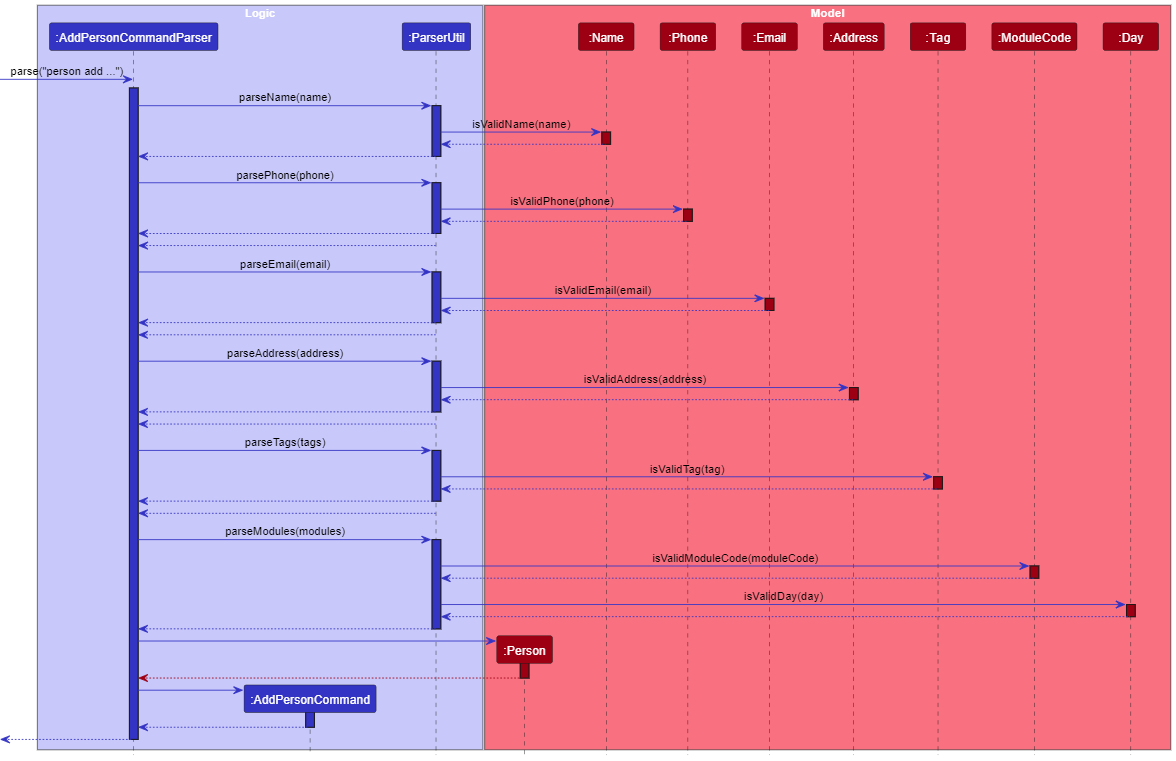
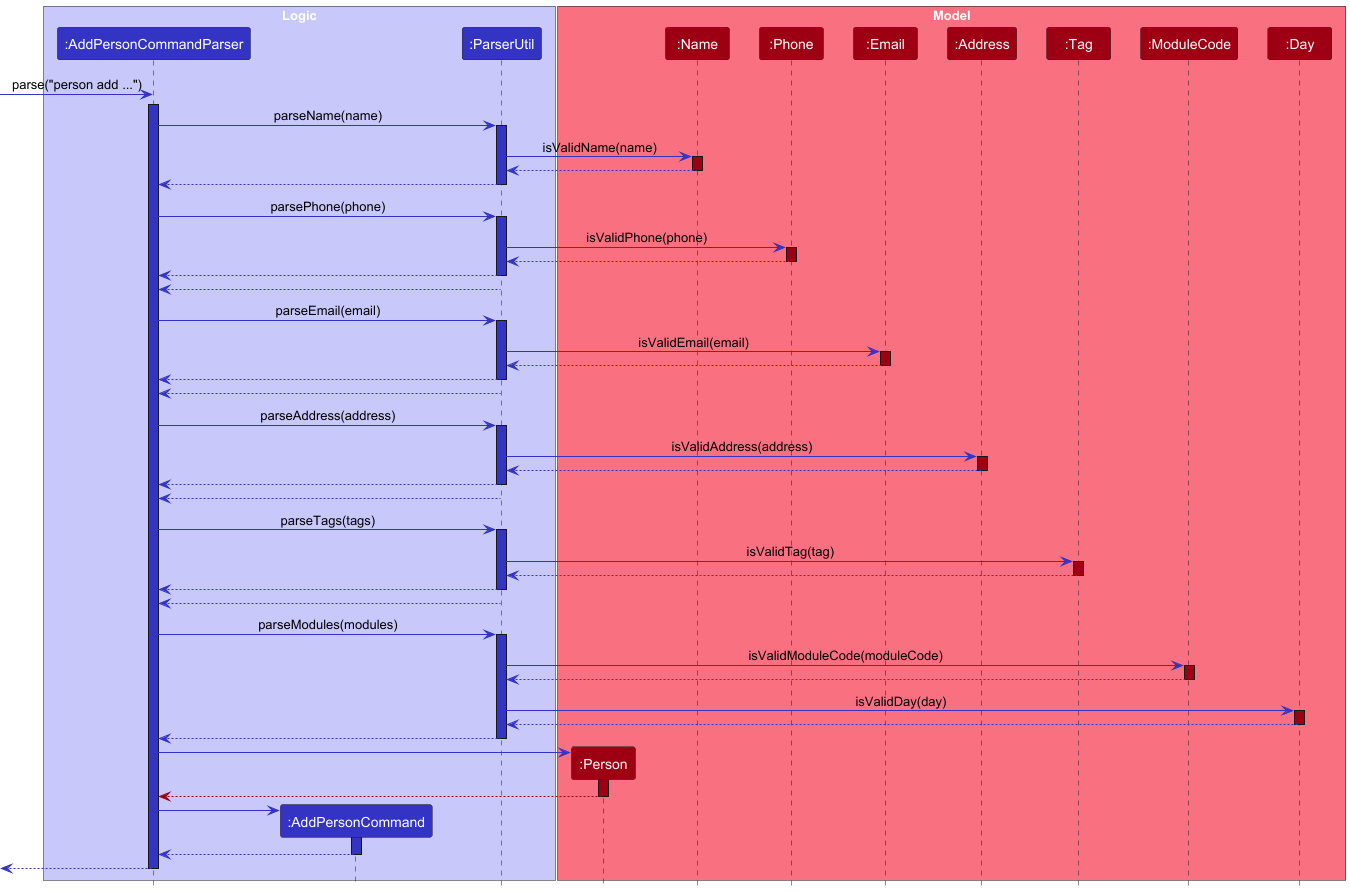
Update Architecture section of DG

diff --git a/docs/DeveloperGuide.md b/docs/DeveloperGuide.md
@@ -362,7 +362,7 @@ Classes used by multiple components are organized in the `syncsquad.teamsync.com
 
 ---
 
-## **Implementation**
+## Implementation
 
 This section describes some noteworthy details on how certain features are implemented.
 
@@ -381,7 +381,7 @@ There are 4 main command groups:
 
 <img src="images/PersonClassDiagram.png" width="550"/>
 
-A Teammate is represented by a `Person` object, and is composed of several attributes. All `Person` objects are stored in a  `UniquePersonList`, which interacts with the `AddressBook` class in the [Model layer](#model-layer).
+A Teammate is represented by a `Person` object, and is composed of several attributes. All `Person` objects are stored in a  `UniquePersonList`, which interacts with the `AddressBook` class in the [Model component](#model-component).
 
 The attributes of the `Person` class represent:
 - `Name`: The name of the teammate.
@@ -391,10 +391,10 @@ The attributes of the `Person` class represent:
 - `Module`: The set of modules taken by the teammate.
 - `Tag`: The set of tags that are related to the teammate.
 
-<div markdown="span" class="alert alert-info">:information_source: **Note:** Each `Person` object is uniquely identified by its `Email` attribute. This means that adding two teammates with the same email is not allowed. This is to allow teammates with the same names to be added.
+<div markdown="1" class="alert alert-info">:information_source: **Note:** See the [glossary](#glossary) for how duplicate teammates are identified.
 </div>
 
-#### Adding a Teammate
+#### Adding a new teammate
 
 The command `person add` creates a new `Person` object, which contains the necessary fields that are associated with a teammate.
 
@@ -404,38 +404,34 @@ The activity diagram is represented below:
 
 The sequence diagram of the command is represented below:
 
-<img src="images/AddPersonCommandSequenceDiagram.png" width="550"/>
+<img src="images/AddPersonCommandSequenceDiagram.png" width="750"/>
 
-<div markdown="span" class="alert alert-info">:information_source: **Note:** The sequence diagram does not show the instantiation of classes that represents the attributes of the `Person` object, as their behaviour is trivial and will clutter the diagram.
+<div markdown="1" class="alert alert-info">:information_source: **Note:**<br>
+* The lifeline for `PersonCommandsParser`, `AddPersonCommandParser` and `AddPersonCommand` should end at the destroy marker (X) but due to a limitation of PlantUML, the lifeline continues till the end of diagram.
+
+* The sequence diagram does not show the instantiation of classes that represents the attributes of the `Person` object, as their behaviour is trivial and will clutter the diagram.
 </div>
 
 The method call `AddPersonCommandParser.parse()` was simplified and the validation checks for the attributes were ommited, as it would clutter the diagram. The full behaviour of the parser is described below:
 
 <img src="images/AddPersonCommandSequenceDiagram2.png" width="750"/>
 
+<div markdown="1" class="alert alert-info">:information_source: **Note:**
 
-##### Notes
+The following restrictions apply to the attributes:
 
-- Each teammate is uniquely identified by their email. This means that two `Person` objects that have the same email are considered to be the same teammate. This does not apply to the `equals` property, which checks for equality on all fields.
-- The `Name` attribute must only consist of Latin alphanumerical characters, spaces, and allowed special characters (apostrophe and dash) only.
-- The `Email` attribute must follow the following constraints:
+* Names should only contain alphanumeric characters, spaces, and the following special characters (`'`,`/` and `-`).
 
-  - 1. The local-part should only contain alphanumeric characters and these special characters, excluding the parentheses, (+\_.-). The local-part may not start or end with any special characters.
+* Phone numbers should only contain numbers, and it should be at least 3 digits long.
 
-  - 2.  This is followed by a '@' and then a domain name. The domain name is made up of domain labels separated by periods. The domain name must:
-    - end with a domain label at least 2 characters long
-    - have each domain label start and end with alphanumeric characters
-    - have each domain label consist of alphanumeric characters, separated only by hyphens, if any.
+* Emails should be of the format local-part@domain.
 
-- The `Phone` attribute must consist of numbers only, and be at least 3 digits long.
-- All attributes must not be empty (including whitespaces).
-- If any of these constraints are to fail, the parser will throw an error based on the earliest field that fails in the above order.
+* Tags should only contain alphanumeric characters.
 
-##### Future Considerations
+* Users should avoid using [command line flag patterns](#glossary) as they _might_ cause an error.
+</div>
 
-- The name constraint can be relaxed to include non-Latin alphabets, such as Chinese characters. This is not an urgent requirement, and given the NUS locality, it is likely that enforcing Latin alphabets is sufficient.
-
-#### Editing a Teammate
+#### Editing a teammate
 
 The command `person edit` edits an existing `Person` object by its index.
 
@@ -443,11 +439,7 @@ The activity diagram is represented below:
 
 <img src="images/PersonEditActivityDiagram.png" width="550"/>
 
-##### Notes
-
-- The same restrictions mentioned in [Adding a Person](#adding-a-person) appplies here as well.
-
-#### Deleting a Teammate
+#### Deleting a teammate
 
 The command `person delete` deletes an existing `Person` object by its index.
 
@@ -455,7 +447,7 @@ The activity diagram is represented below:
 
 <img src="images/PersonDeleteActivityDiagram.png" width="550"/>
 
-#### Searching for a Teammate
+#### Searching for a teammate
 
 The command `person find` finds an existing `Person` object by a given predicate.
 
@@ -463,41 +455,37 @@ The activity diagram is represented below:
 
 <img src="images/PersonFindActivityDiagram.png" width="550"/>
 
-##### Notes
-
-- The search predicate cannot be blank.
-
-#### Listing All Teammates
+#### Listing all teammates
 
 The command `person list` displays all `Person` objects, sorted by name.
 
 The activity diagram is represented below:
 
-<img src="images/PersonListActivityDiagram.png" width="350"/>
+<img src="images/PersonListActivityDiagram.png" width="275"/>
 
-#### Exporting A Teammate
+#### Exporting a teammate
 
 The command `person export` exports a `Person` object as text.
 
 The activity diagram is represented below:
 
-<img src="images/PersonExportActivityDiagram.png" width="350"/>
+<img src="images/PersonExportActivityDiagram.png" width="550"/>
 
 ### Module
 
 <img src="images/ModuleClassDiagram.png" width="250"/>
 
 A Module is composed of several attributes:
-- `ModuleCode`: The module code of the module.
-- `Day`: The day of the module, stored as one of `"MON", "TUE", "WED", "THU", "FRI", "SAT", "SUN"`. 
-- `startTime`: The start time of the module, stored as a  `LocalTime` object.
-- `endTime`: The end time of the module, stored as a  `LocalTime` object.
+- `Module code`
+- `Day of week`
+- `Start time`
+- `End time`
 
-<div markdown="span" class="alert alert-info">:information_source: **Note:** Each `Module` object is uniquely identified by its `ModuleCode` attribute. This means that adding two modules with the module code is not allowed. It is also not possible to add a module with invalid times (i.e. start time later than end time), or to add a module when there is already an existing module within that time period.
+<div markdown="span" class="alert alert-info">:information_source: **Note:**  See the [glossary](#glossary) for how duplicate and overlapping modules are identified.
 </div>
 
 
-#### Adding a Module for a Teammate
+#### Adding a module for a teammate
 
 The command `module add` creates a new `Module` object, which contains the necessary fields that are associated with an NUS module.
 
@@ -505,9 +493,7 @@ The activity diagram is represented below:
 
 <img src="images/ModuleAddActivityDiagram.png" width="550"/>
 
-The implementation of the `module add` command is largely similar to the `Person` variation. 
-
-#### Deleting a Module for a Teammate
+#### Deleting a module from a teammate
 
 The command `module delete` removes an existing `Module` from a `Person`.
 
@@ -515,20 +501,17 @@ The activity diagram is represented below:
 
 <img src="images/ModuleDeleteActivityDiagram.png" width="550"/>
 
-The implementation of the `module delete` command is largely similar to the `Person` variation. 
-
 ### Meeting
 
 A Meeting is composed of several attributes:
-- `date`: The date of the meeting, stored as a `LocalDate` object.
-- `startTime`: The start time of the meeting, stored as a  `LocalTime` object.
-- `endTime`: The end time of the meeting, stored as a  `LocalTime` object.
+- `Date`
+- `Start time`
+- `End time`
 
-<div markdown="span" class="alert alert-info">:information_source: **Note:**
-The startTime and endTime validation checks for `Meeting` is similar to `Module`. It is also not possible to add a meeting with invalid times (i.e. start time later than end time), or to add a meeting when there is already an existing meeting within that time period.
+<div markdown="span" class="alert alert-info">:information_source: **Note:** See the [glossary](#glossary) for how duplicate and overlapping meetings are identified.
 </div>
 
-#### Adding a Meeting
+#### Adding a meeting
 
 The command `meeting add` creates a new `Meeting` object, which contains the necessary fields that are associated with an NUS module.
 
@@ -536,9 +519,7 @@ The activity diagram is represented below:
 
 <img src="images/MeetingAddActivityDiagram.png" width="550"/>
 
-The implementation of the `meeting add` command is largely similar to the `Person` variation. 
-
-#### Deleting a Meeting
+#### Deleting a meeting
 
 The command `meeting delete` deletes an existing `Meeting`.
 
@@ -546,32 +527,30 @@ The activity diagram is represented below:
 
 <img src="images/MeetingDeleteActivityDiagram.png" width="550"/>
 
-The implementation of the `meeting delete` command is largely similar to the `Person` variation.
-
 ### General Commands
 
-#### Show Date
-
-The command `showdate` update the timetable to show the specified date's week.
-
-<img src="images/ShowDateCommandSequenceDiagram.png" width="550"/>
-
-#### Help
+#### Viewing help
 
 The command `help` shows a message explaining how to access the user guide.
 
-<img src="images/HelpCommandSequenceDiagram.png" width="550"/>
+<img src="images/HelpCommandSequenceDiagram.png" width="750"/>
 
-#### Clear
+#### Changing week displayed
+
+The command `showdate` changes the week displayed in the timetable view in TeamSync.
+
+<img src="images/ShowDateCommandSequenceDiagram.png" width="750"/>
+
+#### Clearing all data
 
 The command `clear` clears all teammates, modules and meetings from TeamSync.
 
-<img src="images/ClearCommandSequenceDiagram.png" width="600"/>
+<img src="images/ClearCommandSequenceDiagram.png" width="750"/>
 
 
 ---
 
-## **Documentation, logging, testing, configuration, dev-ops**
+## Documentation, logging, testing, configuration, dev-ops
 
 - [Documentation guide](Documentation.md)
 - [Testing guide](Testing.md)
